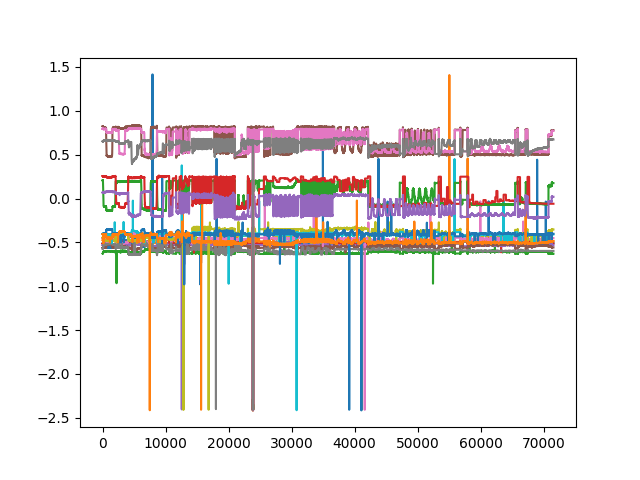
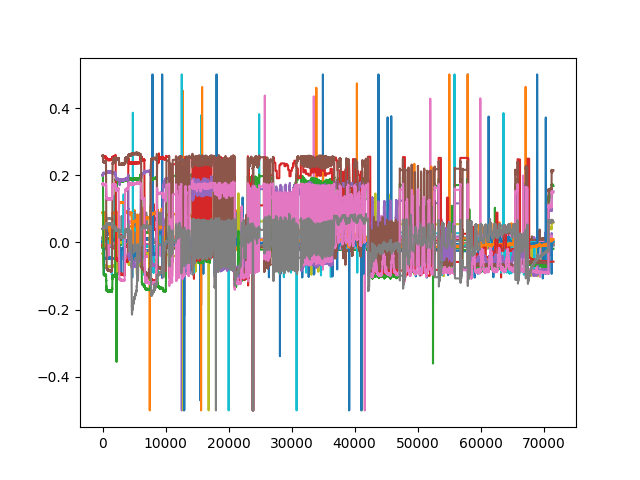
tight following tuning

diff --git a/python/training/training_gru.py b/python/training/training_gru.py
@@ -29,10 +29,12 @@ NUM_SENSORS = 18
 N_D = 2
 D_D = 2
 DATA_SIZE = N_D*6 + D_D*3 + NUM_SENSORS
-TRAINING = True
+TRAINING = False
+MODEL_NAME = "forward_kinermatics_mar_18_2022.hdf5"
 
 data_files_location = "../../data/12_23_2021"
 regions = ['SV_tilt_' + str(i) for i in range(1, 20)]
+
 
 def prepare_data_file_vani(signals, position, inputs, nd=3, dd=3):
     assert nd == dd, "nd and dd need to be the same"
@@ -71,8 +73,8 @@ def create_gru_network(x_train_shape: Tuple[int]):
     model = Sequential()
     #model.add(GRU(units = 15, input_shape = (1, x_train_shape[-1])))
     model.add(Flatten())
-    model.add(Dense(50, activation = 'relu'))
-    model.add(Dense(15, activation = 'relu'))
+    model.add(Dense(10, activation = 'relu'))
+    model.add(Dense(10, activation = 'relu'))
     model.add(Dense(3, activation = 'tanh', kernel_initializer='random_normal',
                             bias_constraint = tf.keras.constraints.max_norm(0.0)))
     #model.add(Dense(10, activation = 'relu'))
@@ -97,19 +99,24 @@ def create_data_labels(data):
                                                 nd = N_D, dd = D_D)
         X += [dataset]
         y += [labels]
-    return np.vstack(X), np.vstack(y)
+    X_data = np.vstack(X)
+    y_data = np.vstack(y)
+    print(np.median(X_data[:, -NUM_SENSORS:], axis = 0))
+    X_data[:, -NUM_SENSORS:] = np.clip(X_data[:, -NUM_SENSORS:] - np.median(X_data[:, -NUM_SENSORS:], axis = 0), -0.5, 0.5)
+    return X_data, y_data
 
 def gru_training(data):
     data_shape = data[0].shape
     model = create_gru_network(x_train_shape = (None, 1, DATA_SIZE))
     X, y = create_data_labels(data)
     kfold = TimeSeriesSplit(n_splits = 10)
+    test = None
     for train, test in kfold.split(X, y):
         x_train = X[train].reshape(-1, 1, DATA_SIZE)
         y_train = y[train]
         model.fit(x_train, y_train, epochs = 30, batch_size = 50)
-    model.save('forward_kinematics_jan_10_2022.hdf5')
-    return X, y, model
+    model.save(MODEL_NAME)
+    return X, y, model, test
 
 if __name__=='__main__':
     #plt.style.use('seaborn')
@@ -126,13 +133,13 @@ if __name__=='__main__':
                               invalid_raise = False)]
 
     if TRAINING:
-        X, y, forward_kinematics_model = gru_training(data)
+        X, y, forward_kinematics_model, test = gru_training(data)
     else:
         X, y = create_data_labels(data)
-    forward_kinematics_model = keras.models.load_model('forward_kinematics_jan_10_2022.hdf5', compile=False)
+    forward_kinematics_model = keras.models.load_model(MODEL_NAME, compile=False)
     samples = 10000
-    X_sysint = X[:samples, :]
-    y_true_sysint = y[:samples, :]
+    X_sysint = X[test, :]
+    y_true_sysint = y[test, :]
     y_pred_sysint = forward_kinematics_model.predict(
         X_sysint.reshape(X_sysint.shape[0], 1, X_sysint.shape[1])
     )  # our predictions!
@@ -156,7 +163,7 @@ if __name__=='__main__':
     plt.subplot(3, 2, 5)
     plt.plot(1000 * y_true_sysint[:, 2], '--k', linewidth=2)
     plt.plot(1000 * y_pred_sysint[:, 2], 'r', linewidth=2)
-    plt.ylim(-15, 15)
+    plt.ylim(-15, 20)
     plt.legend([r'$z_{true}$', r'$\hat{z}_{GRU}$'])
     plt.ylabel('z [mm]')
 

diff --git a/cpp/tilting/include/controller.hpp b/cpp/tilting/include/controller.hpp
@@ -8,23 +8,27 @@ struct Controller{
   float machine_zero = 1e-20;
   float epsilon = 4e-3;
   float signal_calibration = 5e5;
-  int m = 6, n = 3, nd = 2, dd = 2, N = 3, Nc = 1;
-  float s = 1e-25, b = 1e-15, r = 4e5; 
+  int m = 6, n = 3, nd = 2, dd = 2, N = 2, Nc = 1;
+  float s = 1e-35, b = 1e-10, r = 4e5; 
   int nn_input_size = NN_INPUT_S;
   float neutral_point[3] = { 0., 0., 0.};
-  float input_calibration = 20;
-  float input_offset = 0.5;
-  int wavelength = 5;
+  int wavelength = 10;
+  float medians_signals[NUM_SIGNAL]  = {
+                                -0.5085999966, -0.4826000035, -0.6096000075, -0.5080999732, -0.5307999849,
+                                -0.5483000278, -0.4607999921, -0.5889999866, -0.4124000072, -0.4099999964,
+                                -0.4063999951, -0.4963999987,  0.0073999763, -0.0022000074, -0.1313000023,
+                                 0.5650999546,  0.6205999851,  0.6116000414,        
+                                        };
   float previous_input[NN_INPUT_S] = { 0.0 };
   float q_matrix[9] = { 1e6, 0., 0.,
                         0., 1e6,  0., 
-                        0., 0., 1e6 };
+                        0., 0., 2e6 };
   float lambda_matrix[36] = { 1., 0., 0., 0., 0., 0.,
                              0., 1., 0., 0., 0., 0., 
                              0., 0., 1., 0., 0., 0.,
                              0., 0., 0., 1., 0., 0.,
                              0., 0., 0., 0., 1., 0., 
-                             0., 0., 0., 0., 0., 0.};
+                             0., 0., 0., 0., 0., 1.};
   float min_max_input_saturation[2] = { -0.5, 0.5 };
   float u[6] = { -0.5, -0.5, -0.5, -0.5, -0.5, -0.5 };
   float prev_u[6] = { -0.5, -0.5, -0.5, -0.5, -0.5, -0.5 };

diff --git a/cpp/tilting/src/signals.cpp b/cpp/tilting/src/signals.cpp
@@ -180,7 +180,7 @@ void setup_signal_collector(){
 }
 
 void collect_signal(float * signal_to_read, float calibration, 
-                                            int signal_size)
+                                            int signal_size, float * medians_signal)
 {
     // channel driver
     // float displacement_laser = analogRead(DISP_PIN);
@@ -224,6 +224,7 @@ void collect_signal(float * signal_to_read, float calibration,
             if (isinf(signal_to_read[i]) || isnan(signal_to_read[i])){
                 signal_to_read[i] = -0.5;
             }
+            //signal_to_read[i] = min(0.5, max(signal_to_read[i], -0.5));
         }
         digitalWriteFast(PROBEPIN, !digitalRead(PROBEPIN));
         while (micros() < (loop_timing + loop_control_period))

diff --git a/cpp/tilting/src/motors.cpp b/cpp/tilting/src/motors.cpp
@@ -39,8 +39,7 @@ float saturate(float u, int min_val, int max_val){
     return min(max_val, max(u, min_val));
 }
 
-void step_motor(float * u, const int m, float input_calibration, 
-                                        float input_offset) 
+void step_motor(float * u, const int m) 
 {
   /*
    *  This function sends the first step input to the board that

diff --git a/cpp/tilting/include/signals.hpp b/cpp/tilting/include/signals.hpp
@@ -23,7 +23,7 @@
 
 void toggle_CS_PINS(bool low_high); //declare the function before it's used
 void setup_signal_collector();
-void collect_signal(float *, float, int);
+void collect_signal(float *, float, int, float*);
 void toggle_CS_PINS(bool low_high);
 
 #endif

diff --git a/cpp/tilting/include/motors.hpp b/cpp/tilting/include/motors.hpp
@@ -18,7 +18,7 @@
 
 
 void setup_motors();
-void step_motor(float *, int, float, float);
+void step_motor(float *, int);
 uint8_t convert_mapped_values(float);
 
 #endif
